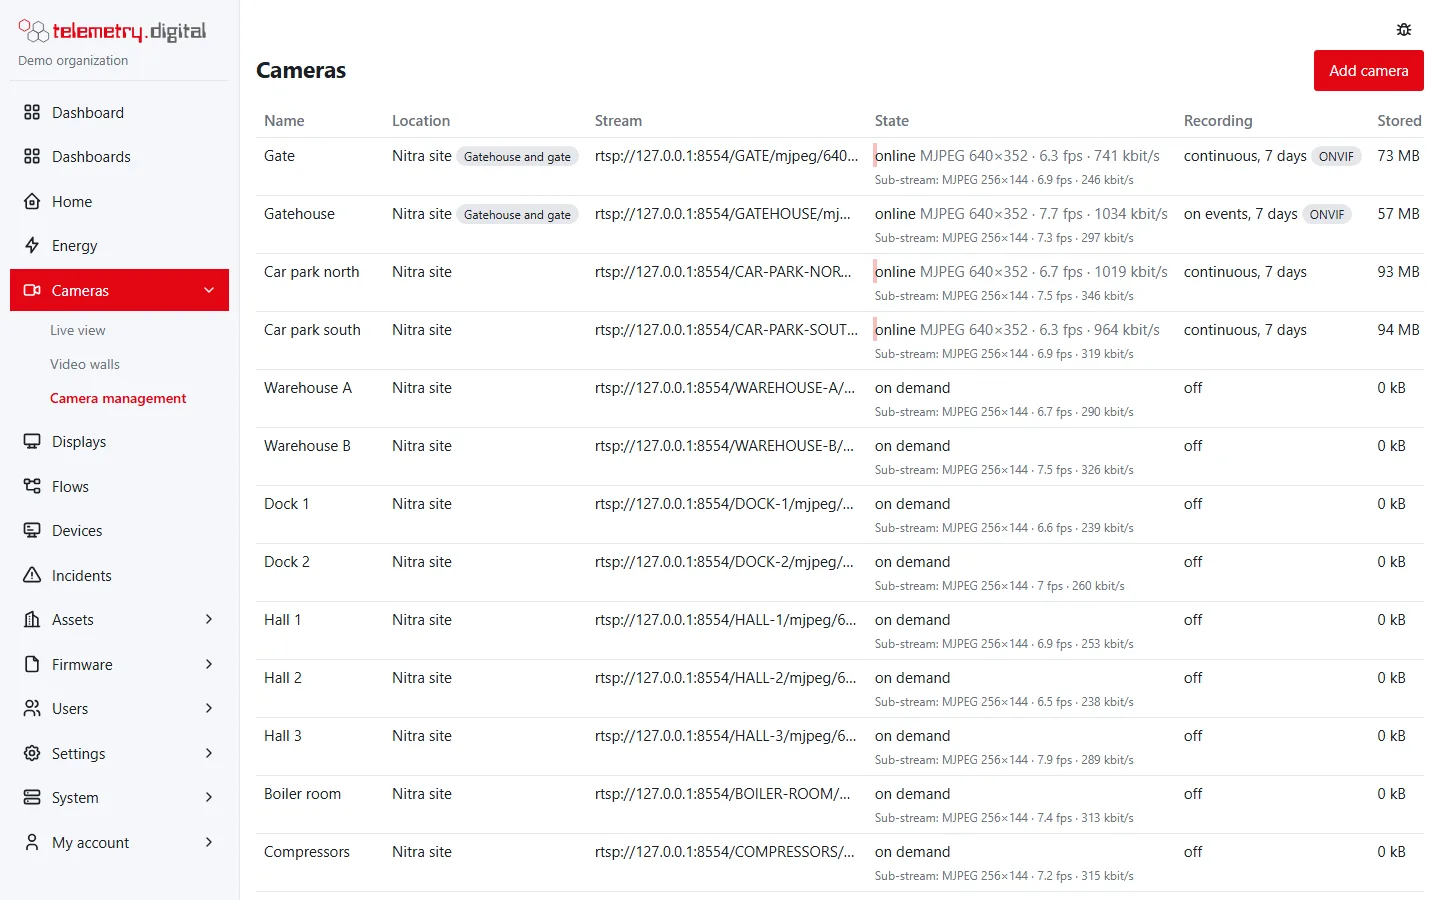
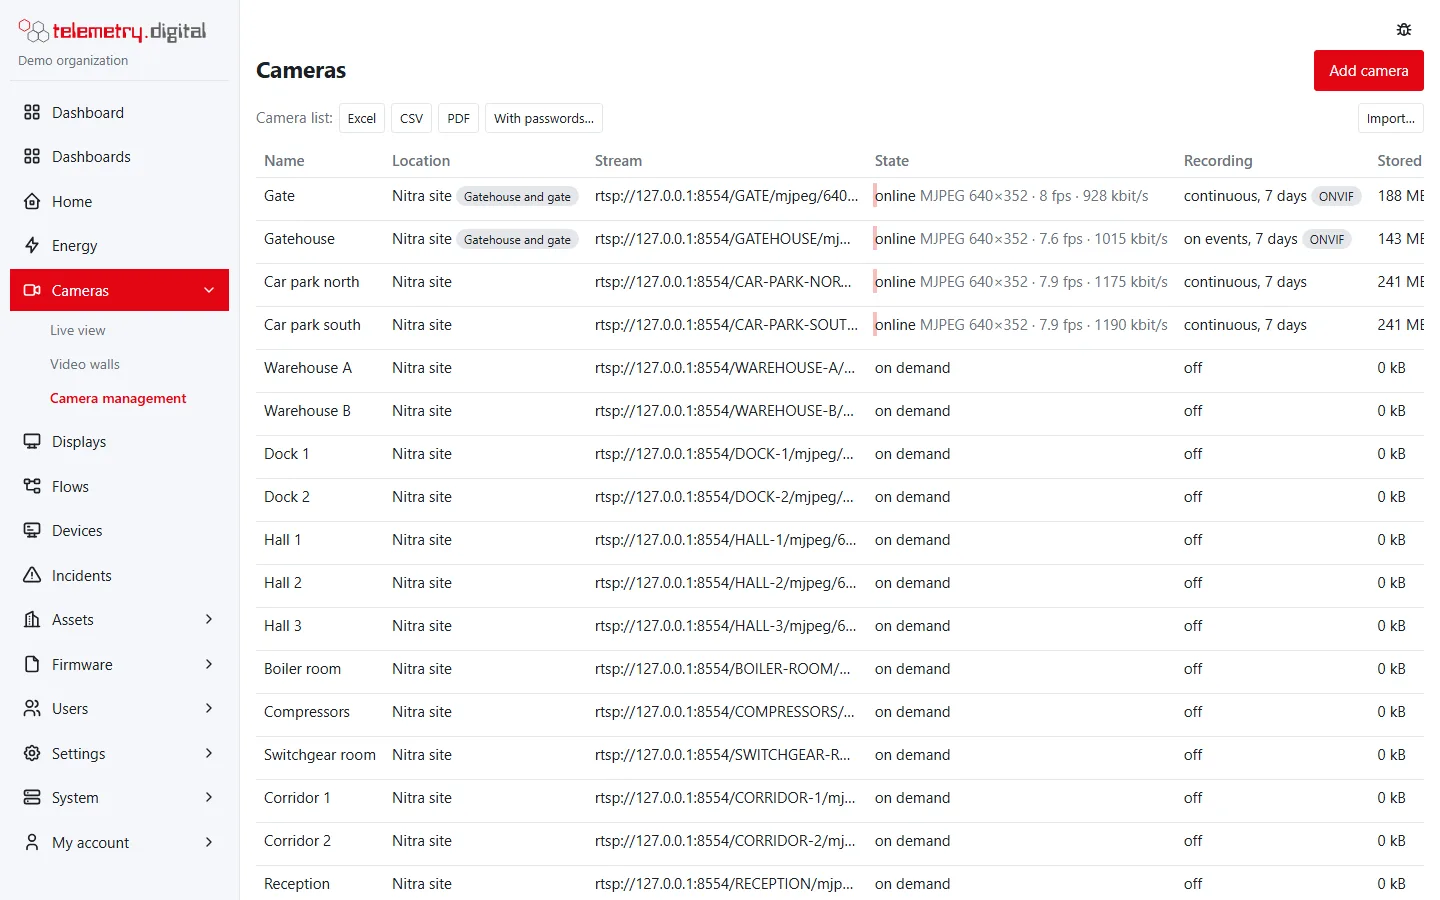
0.70.0: camera list - export to Excel, CSV and PDF, import with a preview
- New page video-nvr/export-and-import.md: the export buttons, the export with
  passwords (permission, confirmation, marking), the import with its preview,
  options, matching, cell rules, remote cameras, the camera limit, the template,
  the column reference, restoring the cameras in five minutes, the command line
- Adding cameras: the Note field, the Camera list buttons above the table
- Video reference: camera list limits, video.credentials_export, API endpoints,
  command line; Privacy: permission and audit entries; Permissions reference
- Pictures: camera list, dialog with passwords, Excel sheet, PDF pages, import
  preview and errors; Camera management picture refreshed

diff --git a/docs/telemetry/video-nvr/export-and-import.md b/docs/telemetry/video-nvr/export-and-import.md
@@ -1,0 +1,235 @@
+---
+title: Camera list — export and import
+slug: video-export-and-import
+sidebar_position: 11
+tags: [video, cameras, export, import, excel, csv, pdf, backup, recovery]
+---
+
+**One button gives the customer a list of every camera with all its settings** — the IP addresses, names, stream
+addresses, user names and, when it is needed, the passwords. Keep it with the documentation of the building after the
+installation company leaves, or use it to move the cameras to another system. And the same file brings the cameras
+back: after a crash, import it and the cameras record again in a few minutes instead of searching for every address
+and password again.
+
+![Camera management with the Camera list buttons Excel, CSV, PDF and With passwords above the camera table, and Import on the right](img/camera-list.webp)
+
+*Cameras → Camera management → Camera list.* Everything on this page needs the permission `video.manage`; the export
+with passwords needs `video.credentials_export` as well.
+
+## Export
+
+| Button | File | Use it for |
+|---|---|---|
+| **Excel** | `cameras_<organization>_<time>.xlsx` with the sheets *Cameras* and *Read me* | keeping, editing, importing |
+| **CSV** | the same table as text | other systems, scripts, importing |
+| **PDF** | a card per camera on A4 landscape | the printed file of the building |
+| **With passwords…** | the same, with the camera passwords and relay secrets | the handover to the customer, a restore on a new server |
+
+The list holds the cameras of your organization that you may see (camera groups apply). Removed cameras are not in
+it. On top of the *Cameras* sheet are the organization, the server, the time of the export, who exported it and the
+version; the *Read me* sheet explains every column.
+
+![The Cameras sheet of the exported Excel file: the header with organization, server, time, user and version, then one row per camera with id, name, location, group, enabled, connection, make, ip and the stream addresses](img/camera-list-excel.webp)
+
+The **PDF** has the same header and one card per camera — the name, location, group and state on top, every setting
+below. It is stored as a report like the other PDF exports.
+
+![The first page of the PDF camera list: the title Camera inventory with the organization and the number of cameras, summary boxes, and one card per camera with its settings](img/camera-list-pdf.webp)
+
+!!! note "CSV and Excel"
+    The CSV is UTF-8 with a byte-order mark and **semicolons** between the columns: Excel set to Slovak, Czech, German
+    and the other languages with a decimal comma opens it straight in columns; LibreOffice and Google Sheets recognise
+    it too. The lines of the header start with `#`. When Excel shows everything in one column (a language with a
+    decimal point), open the file with *Data → From Text/CSV* and choose the semicolon — or use the Excel file.
+
+## Export with passwords
+
+Passwords never leave the server in the normal export. **With passwords…** adds the camera passwords and the relay
+secrets of remote cameras, and only:
+
+- for a user with the permission `video.credentials_export` (the built-in `org_admin` only) and `video.manage`,
+- after typing their own password again (and the authenticator code with two-factor sign-in),
+- with a reason, which goes to the audit trail with who, when, how many cameras and which format,
+- in the browser — never with an API token or through an AI assistant,
+- at most 3 times in a row, then once a minute.
+
+![The Camera list with passwords dialog: the CONFIDENTIAL warning, the format, the reason, and the user's password](img/camera-list-passwords.webp)
+
+The file is marked **CONFIDENTIAL — contains passwords** in its name, the sheet name, the first line, and in the PDF
+in the header, the footer and a box above the cards. A PDF with passwords is **not** kept on the server.
+
+![The top of the PDF with passwords: CONFIDENTIAL — contains passwords in the header, a red box under the title, and the password of each camera in red](img/camera-list-pdf-confidential.webp)
+
+!!! warning "Whoever has the file controls the cameras"
+    Keep the file like the keys to the building, give it only to whoever needs it and delete copies you no longer
+    need. After a handover consider changing the camera passwords.
+
+## Import
+
+**Import…** takes an Excel or CSV file with the columns of the camera list: an export of this or another server, or
+the template filled in. Nothing changes until you have seen the preview and confirmed it, and an import never deletes
+a camera.
+
+1. *Cameras → Camera management → Import…*
+2. Choose the file. The server reads it and checks every row with the same rules as the camera form.
+3. Check the preview: what happens to each row, which settings change, and the messages.
+4. Type a reason and choose **Import (N)**. All rows are stored at once — or none, when one fails.
+
+![The Import cameras dialog after checking a file: counts new 1, update 2, unchanged 1, a table with the row in the file, the result, the camera, the IP address and the changes, and the reason above the Import (3) button](img/camera-import-preview.webp)
+
+| Result | Meaning |
+|---|---|
+| new | a camera that is not on this server is added |
+| update | an existing camera changes; the changed settings are listed |
+| restore | a removed camera of the organization comes back by its id, with the recordings that still exist |
+| unchanged | the row equals the camera |
+| skipped | updating or adding is switched off for this import |
+| error | the row cannot be stored; the message says why |
+
+While a row has an error, the import cannot be confirmed — correct the file or remove the row and choose the file
+again.
+
+![The same dialog with an error row: Loading bay with the message url is required, and the button Correct the rows with errors first](img/camera-import-errors.webp)
+
+### Options
+
+| Option | Default | Meaning |
+|---|:---:|---|
+| Update existing cameras | on | change cameras found by id, else by name |
+| Add missing cameras | on | add cameras that are not found |
+
+### How rows find their camera
+
+- By **id** — the camera with that id. An id from an export of another server is **kept** when it is free here, so
+  dashboards, video walls and floor plans restored with the organization still show their cameras. An id of a removed
+  camera restores it.
+- Without an id, by **name** (capitals do not matter). When several cameras have the name, the **ip** column decides;
+  when it does not, the row is an error.
+
+### What the cells mean
+
+| Cell | Meaning |
+|---|---|
+| empty | an existing camera keeps its value; a new camera gets the default |
+| `-` | clears a text: location, group, sub_stream_url, username, onvif_url, ptz_profile, snapshot_url, note |
+| `none` in event_kinds | no event starts recording |
+| yes and no | also true and false, 1 and 0, and the usual words in other languages |
+| an empty password | keeps the stored password; the same password is no change |
+| a different ip | moves every address of the camera from the old address to the new one, ports and paths stay |
+| make with ip | fills in the stream, ONVIF and snapshot addresses of a camera without a main stream |
+
+Rows whose id starts with `#` are skipped — the example rows of the template. Columns the import does not know, and
+the columns *floor_plans* and *state*, are ignored and listed in the preview.
+
+### Remote cameras
+
+A camera behind a relay keeps its relay working when the row has its **relay_secret** (the export with passwords has
+it). Without it the camera gets a new secret and the preview says so: open the camera and choose *New secret* to get
+the relay configuration for the site.
+
+### Without a licence
+
+A server without a licence runs up to 4 enabled cameras. Cameras that are enabled stay enabled; further rows take the
+free places in the order of the file and the rest are **imported disabled**, each with a warning in the preview.
+Enable them when the server has a licence. See [Cameras without a licence](index.md#cameras-without-a-licence).
+
+### After the import
+
+Changed cameras connect and record at once. The audit trail has `video.import` with the counts, the options and the
+cameras, and every camera change as `camera.create`, `camera.update` or `camera.restore` with the reason
+*import: …*.
+
+## The template
+
+*Import… → Template* gives an empty Excel or CSV file with every column and two example rows. The fastest way for a
+new site is one row per camera with **name**, **make**, **ip**, **username** and **password** — the addresses of the
+makes are filled in like in the camera form (see [The fastest way: camera make](cameras.md#the-fastest-way-camera-make)).
+
+## Columns
+
+| Column | Values | Meaning |
+|---|---|---|
+| `id` | id or empty | the camera's id; empty for a new camera |
+| `name` | 1–80 characters | the name |
+| `location` | ≤ 120 characters | where the camera is |
+| `group` | ≤ 60 characters | camera group; a new group is created by using it |
+| `enabled` | yes, no | whether the server runs the camera |
+| `connection` | pull, push | the server connects, or a relay sends the video |
+| `make` | tapo, hikvision, dahua, reolink, axis, uniview, ezviz, other | recognised from the addresses on export |
+| `ip` | address or host name | of the main stream; of the ONVIF address for push cameras |
+| `main_stream_url` | `rtsp://`, `rtsps://`, `http://`, `https://` | the main stream, never with user name and password |
+| `sub_stream_url` | as above | the smaller stream for tiles |
+| `transport` | auto, tcp, udp | RTSP transport |
+| `username` | text | the camera account |
+| `password` | text | only in the export with passwords; empty keeps the stored one |
+| `relay_secret` | 16–200 characters | only in the export with passwords; push cameras |
+| `onvif_url` | `http(s)://…/onvif/device_service` | events and PTZ |
+| `ptz_profile` | ≤ 64 characters | ONVIF profile for PTZ; empty is automatic |
+| `snapshot_url` | `http(s)://…` | one JPEG picture, for motion detection |
+| `recording` | continuous, events, off | the recording mode |
+| `pre_event_s` | 0–60 | seconds before an event |
+| `post_event_s` | 1–600 | seconds after an event |
+| `event_kinds` | motion, tamper, line, intrusion, input, mark, other, none | events that start recording, separated by commas |
+| `retention_days` | 1–3650 | days the recordings are kept |
+| `motion_detection` | yes, no | motion detection on the server |
+| `motion_sensitivity` | 1–100 | its sensitivity |
+| `motion_zones` | JSON | polygons of points from 0 to 1; `[]` is the whole picture |
+| `privacy_masks` | JSON | polygons of points from 0 to 1; `[]` is none |
+| `audio` | yes, no | take the camera's sound |
+| `audio_record` | yes, no | record the sound too |
+| `sort` | whole number | order in lists |
+| `note` | ≤ 500 characters | mounting, cabling, recorder channel, warranty |
+| `floor_plans` | text | export only: dashboards with a pin of the camera |
+| `state` | text | export only: the state at the time of the export |
+
+Masks and zones are written as coordinates of the picture, for example `[[[0,0],[0.25,0],[0.25,0.2],[0,0.2]]]` for a
+rectangle in the top left corner. Floor-plan pins belong to the dashboards and come back with them.
+
+## Restore the cameras in five minutes
+
+The server is broken and the cameras are gone. With the camera list from the handover (the Excel file with
+passwords):
+
+1. Install the server again ([Linux](../getting-started/install-linux.md) or
+   [Windows](../getting-started/install-windows.md)) and sign in.
+2. Install the licence when you have one (*System → License*) — otherwise only 4 cameras come enabled.
+3. *Cameras → Camera management → Import…*, choose the file.
+4. The preview shows every camera as **new**. Type a reason, for example *cameras restored after the server was
+   replaced*, and choose **Import**.
+5. The cameras connect at once. Check *Cameras → Live view*; remote cameras whose relay secret was in the file
+   connect as soon as their relays reconnect.
+
+!!! tip "When the web interface does not start"
+    The same import runs on the server's command line, with the same checks and audit:
+
+    ```sh
+    ctrl32-telemetry cameras import -org SLUG -file cameras.xlsx -dry-run
+    ctrl32-telemetry cameras import -org SLUG -file cameras.xlsx -reason "cameras restored"
+    ```
+
+    `-dry-run` prints the plan without changing anything. A running server connects the imported cameras within a
+    minute, a stopped one when it starts.
+
+## Command line
+
+| Command | What it does |
+|---|---|
+| `ctrl32-telemetry cameras export -org SLUG -file cameras.xlsx` | writes the camera list (`.xlsx`, `.csv` or `.pdf` by the file name, or `-format`) |
+| `ctrl32-telemetry cameras export -org SLUG -file cameras.xlsx -passwords -reason "why"` | with passwords; the file is readable by its owner only and the export is audited |
+| `ctrl32-telemetry cameras import -org SLUG -file cameras.xlsx -reason "why"` | imports; `-dry-run` only shows the plan, `-no-update` and `-no-create` switch the options off |
+
+`-org` is the slug of the organization; it can be left out on a server with one organization. `-config` points to
+`config.toml` when it is not in the default place. The audit trail names the command and the user of the operating
+system.
+
+## Limits
+
+| Item | Limit |
+|---|:---:|
+| Import file | 2 MB |
+| Rows per import | 1000 |
+| Exports with passwords | 3 in a row, then 1 a minute per user |
+| Note of a camera | 500 characters |
+
+See also [Adding cameras](cameras.md) for every field of a camera and [Video reference](reference.md) for the
+permissions and the API.

diff --git a/docs/telemetry/video-nvr/reference.md b/docs/telemetry/video-nvr/reference.md
@@ -1,7 +1,7 @@
 ---
 title: Video reference
 slug: video-reference
-sidebar_position: 11
+sidebar_position: 12
 tags: [video, reference, limits, api]
 ---
 
@@ -34,6 +34,17 @@ each section.
 | Enabled | on | — |
 
 See [Adding cameras](cameras.md).
+
+## Camera list limits
+
+| Item | Limit |
+|---|---|
+| Import file | 2 MB, Excel (`.xlsx`) or CSV (UTF-8, UTF-16 or Windows-1250; `;`, `,` or tab) |
+| Rows per import | 1000 |
+| Exports with passwords | 3 in a row, then 1 a minute per user; not with API tokens or AI assistants |
+| PDF with passwords | not stored on the server |
+
+See [Camera list — export and import](export-and-import.md).
 
 ## Viewing and export limits
 
@@ -90,6 +101,7 @@ See [Remote sites](remote-sites.md).
 | `video.evidence` | no | yes | yes |
 | `video.unmask` | no | no | yes |
 | `video.audio` | no | no | yes |
+| `video.credentials_export` | no | no | yes |
 | `display.control` | yes | yes | yes |
 | `display.manage` | no | yes | yes |
 
@@ -113,6 +125,9 @@ groups and audit:
 | `GET /video/cameras/{id}/ptz/presets`, `POST /video/cameras/{id}/ptz` | `video.ptz` |
 | `GET /video/events` | `video.playback` |
 | `GET /video/storage` | `video.manage` |
+| `GET /video/inventory?format=xlsx or csv or pdf`, `GET /video/inventory/template` | `video.manage` |
+| `POST /video/inventory/import` (multipart: file, update, create, apply, reason) | `video.manage` |
+| `POST /video/inventory/credentials` (format, reason, password, code) | `video.credentials_export` and `video.manage` |
 | `GET /video/walls`, `GET /video/walls/{id}` | `video.view` |
 | `POST /video/walls`, `PUT /video/walls/{id}`, `DELETE /video/walls/{id}?reason=` | `video.manage` |
 | `GET /video/holds`, `GET /video/evidence/key` | `video.playback` |
@@ -131,3 +146,5 @@ Paths are relative to `/api/v1`. Times are RFC 3339.
 | `ctrl32-telemetry camera-relay -config relay.toml -check` | tests the relay configuration and exits |
 | `ctrl32-telemetry service install-relay -config relay.toml` | installs the relay as a service (also `uninstall-relay`, `start-relay`, `stop-relay`, `restart-relay`) |
 | `ctrl32-telemetry verify-evidence [-key base64] package.zip` | verifies an evidence package |
+| `ctrl32-telemetry cameras export -org SLUG -file cameras.xlsx` | writes the camera list; `-passwords -reason "why"` with passwords |
+| `ctrl32-telemetry cameras import -org SLUG -file cameras.xlsx -reason "why"` | imports a camera list; `-dry-run`, `-no-update`, `-no-create` |

diff --git a/docs/telemetry/video-nvr/privacy.md b/docs/telemetry/video-nvr/privacy.md
@@ -71,6 +71,7 @@ and inform people with a sign.
 | `video.evidence` | hold and release recordings as evidence, signed evidence packages | no | yes | yes |
 | `video.unmask` | see and export pictures without privacy masks | no | no | yes |
 | `video.audio` | hear camera sound live and recorded, export it | no | no | yes |
+| `video.credentials_export` | export the camera list with passwords and relay secrets | no | no | yes |
 | `display.control` | send cameras and commands to displays | yes | yes | yes |
 | `display.manage` | pair, change and disconnect displays | no | yes | yes |
 | `system.admin` | change the server-wide video settings (role `server_admin`) | no | no | no |
@@ -109,6 +110,8 @@ their groups, and an administrator who is limited can hand out only their own gr
 | `camera.mark` | every mark, with the label |
 | `camera.create`, `camera.update`, `camera.delete` | camera changes, with the old and new values and the reason |
 | `camera.push_secret` | a new relay secret |
+| `video.credentials_export` | every export of the camera list with passwords: format, number of cameras, reason |
+| `video.import`, `camera.restore` | every import of a camera list with the counts; a removed camera restored by its id |
 | `video_wall.create`, `video_wall.update`, `video_wall.delete` | wall changes, with the reason |
 | `user.camera_groups` | changes of a user's camera access |
 | `video.settings` | changes of the server-wide video settings |
@@ -116,4 +119,4 @@ their groups, and an administrator who is limited can hand out only their own gr
 !!! warning "You are the data controller"
     telemetry.digital does not decide for you what is lawful. Set the retention to what the purpose needs, mark the
     recorded area, mask what must not be watched, keep sound off unless it is lawful, and give `video.playback`,
-    `video.unmask` and `video.audio` only to people who need them.
+    `video.unmask`, `video.audio` and `video.credentials_export` only to people who need them.

diff --git a/docs/telemetry/video-nvr/cameras.md b/docs/telemetry/video-nvr/cameras.md
@@ -63,6 +63,7 @@ For some makes the dialog shows a tip:
 | Snapshot address | empty | `http(s)://…`, ≤ 500 characters, no credentials | one JPEG picture of an H.264/H.265 camera, for motion detection |
 | Privacy masks | none | ≤ 16 areas | drawn over the picture after the camera is saved; see [Privacy masks](privacy.md#privacy-masks) |
 | Motion zones | none (whole picture) | ≤ 16 areas | where motion counts, drawn after the camera is saved |
+| Note | empty | ≤ 500 characters | free note: mounting, cabling, recorder channel, warranty; it goes into the [camera list](export-and-import.md) |
 | Enabled | on | — | a disabled camera is neither connected nor recorded and is missing from the live view |
 | Reason | — | ≤ 200 characters, required | written to the audit trail with the old and new values |
 
@@ -117,6 +118,12 @@ the answer is shown (the relay reads the streams itself).
 | State | the status dot and state with codec, size, frames per second and bit rate of the main stream and the sub-stream, or the last error |
 | Recording | *continuous* or *on events* with the retention days, or *off*; badges for ONVIF events, relay control, sound and motion detection |
 | Stored | the size of the camera's recordings |
+
+Above the table, **Camera list** exports every camera with all its settings to Excel, CSV or PDF (*With passwords…*
+adds the passwords after you confirm your own), and **Import…** adds or updates cameras from such a file with a
+preview — see [Camera list — export and import](export-and-import.md).
+
+![Camera management: the Camera list buttons and Import above the camera table, the state of each camera with codec, size, frame rate and bit rate, recording and stored size](img/camera-management.webp)
 
 The list refreshes every 5 seconds. Below it, **Storage** shows the space recordings use, the limit and the
 percentage. On a server without a licence a badge above the list shows **Cameras: N of 4 without a licence** — the

diff --git a/docs/telemetry/administration/permissions-reference.md b/docs/telemetry/administration/permissions-reference.md
@@ -39,6 +39,7 @@ Built-in roles cannot be changed. ✓ = the role has the permission, — = it do
 | `video.evidence` | — | — | — | ✓ | ✓ | — |
 | `video.unmask` | — | — | — | — | ✓ | — |
 | `video.audio` | — | — | — | — | ✓ | — |
+| `video.credentials_export` | — | — | — | — | ✓ | — |
 | `display.control` | — | ✓ | — | ✓ | ✓ | — |
 | `display.manage` | — | — | — | ✓ | ✓ | — |
 | `vpn.manage` | — | — | — | — | ✓ | — |
@@ -118,6 +119,7 @@ Two flags of the built-in roles also matter:
 | `video.evidence` | placing and releasing evidence holds, exporting signed evidence packages |
 | `video.unmask` | seeing and exporting camera pictures without privacy masks |
 | `video.audio` | hearing camera sound, live and recorded, and exporting it |
+| `video.credentials_export` | exporting the camera list with the camera passwords and relay secrets (with `video.manage`, after confirming the own password, with a reason; never through API tokens or AI assistants) — see [Camera list](../video-nvr/export-and-import.md) |
 | `display.control` | the *Displays* menu: sending cameras, walls and commands to displays |
 | `display.manage` | pairing, changing and revoking displays |
 
@@ -125,7 +127,7 @@ Camera groups narrow `video.*` further: a user limited to some camera groups see
 view, recordings, walls, events, PTZ). See [Users and permissions](users-and-permissions.md).
 
 !!! note "Sensitive permissions"
-    `video.unmask` and `video.audio` belong only to `org_admin` by default, and `video.evidence` to `engineer` and
+    `video.unmask`, `video.audio` and `video.credentials_export` belong only to `org_admin` by default, and `video.evidence` to `engineer` and
     `org_admin`. Sound is off on every camera until it is switched on for that camera. Every playback, export,
     unmasked view and listening session is written to the audit trail. See [Privacy](../video-nvr/privacy.md).
 

diff --git a/docs/telemetry/video-nvr/index.md b/docs/telemetry/video-nvr/index.md
@@ -48,7 +48,7 @@ beyond the limit, for example after a licence was removed, keep recording and ca
 |---|---|:---:|
 | Cameras → Live view | all cameras as tiles | `video.view` |
 | Cameras → Video walls | open, create and edit walls | `video.view` / `video.manage` |
-| Cameras → Camera management | add, edit, remove cameras; storage | `video.manage` |
+| Cameras → Camera management | add, edit, remove cameras; storage; camera list export and import | `video.manage` |
 | Cameras → Evidence | held recordings, the server's signing key | `video.playback` |
 | Cameras → Settings | server-wide video settings | `video.manage` (change: `system.admin`) |
 | Camera page (`/video/cameras/<id>`) | player, timeline, export, evidence, PTZ | `video.view` |
@@ -67,7 +67,9 @@ beyond the limit, for example after a licence was removed, keep recording and ca
 9. [Evidence](evidence.md) — hold recordings, signed evidence packages and how to verify them.
 10. [Video settings](settings.md) — every server-wide value with its default and bounds, `[video]` in
     `config.toml`, monitoring incidents.
-11. [Video reference](reference.md) — permissions, audit entries and all limits on one page.
+11. [Camera list — export and import](export-and-import.md) — every camera with all its settings in Excel, CSV
+    or PDF (passwords only on request), import with a preview, restoring the cameras after a crash.
+12. [Video reference](reference.md) — permissions, audit entries and all limits on one page.
 
 ## Quick start
 
